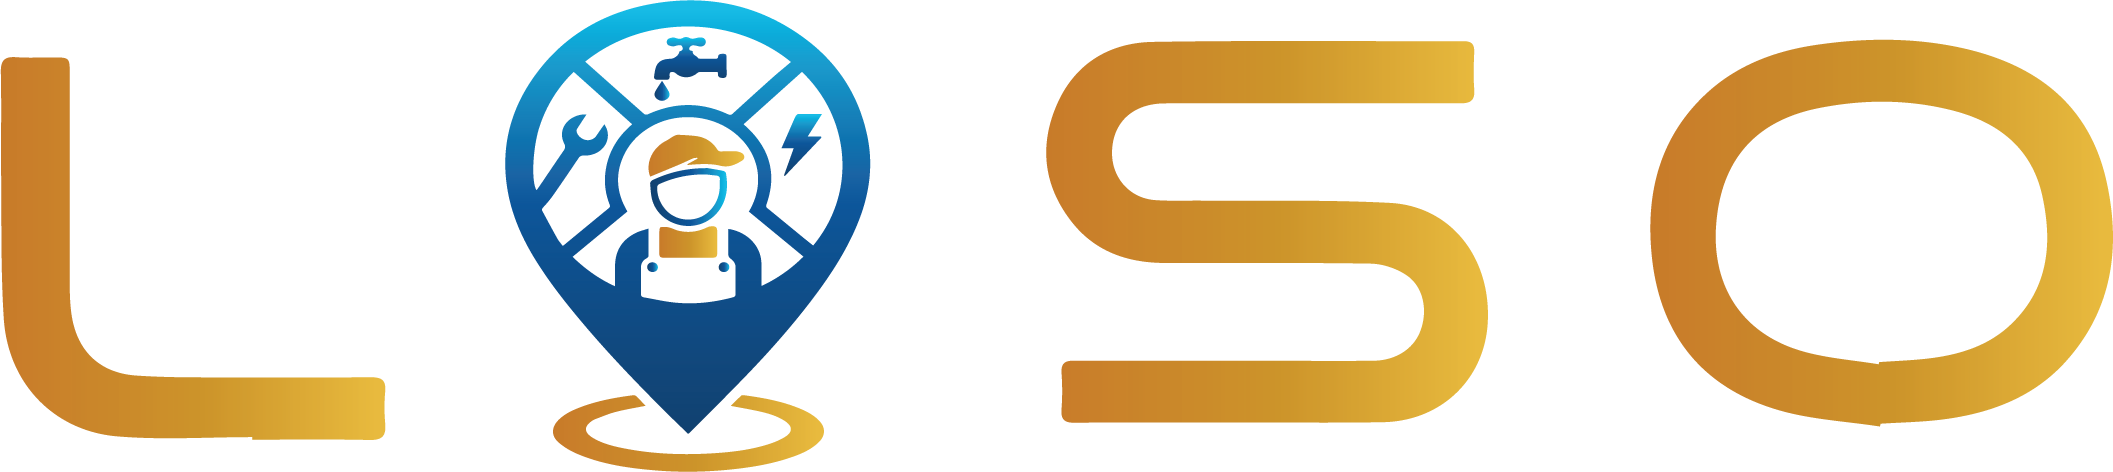
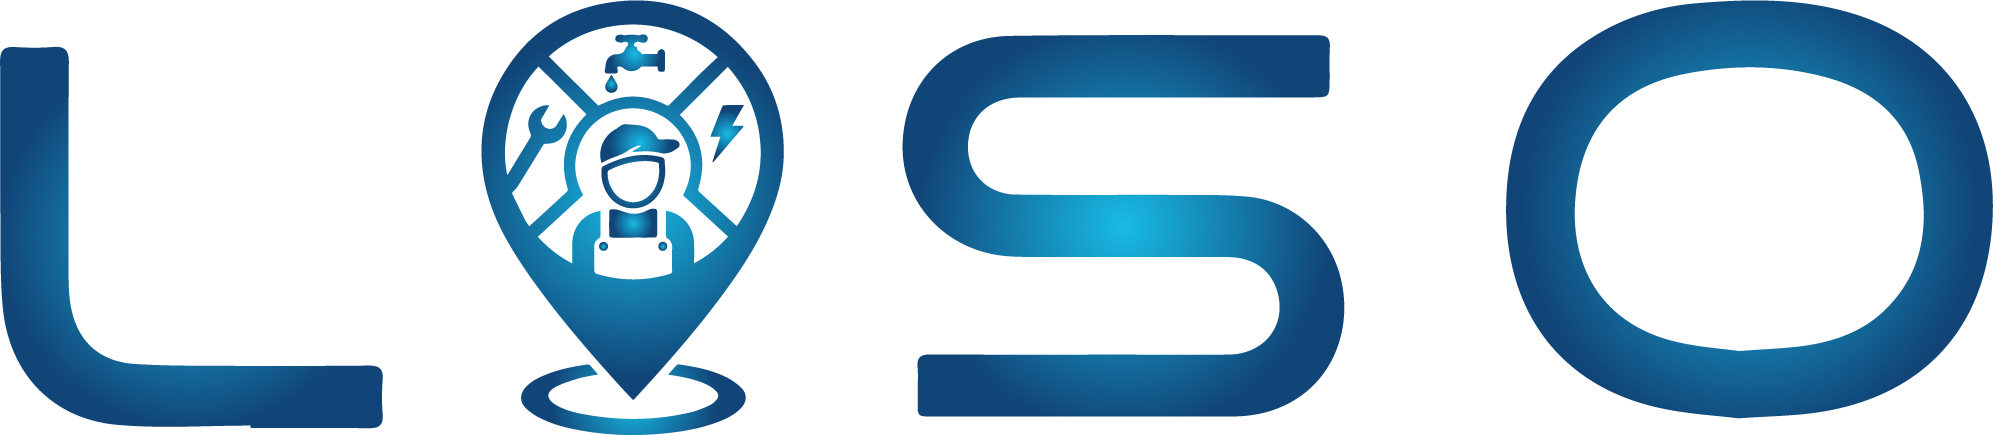
Fix: Clean up duplicate imports and placeholders in JS files

diff --git a/LASO/frontend/js/customer.js b/LASO/frontend/js/customer.js
@@ -1,7 +1,6 @@
 import { checkAuth, DISTRICTS, SERVICES, getQueryParams, getStarsHTML, calculateDistance } from './utils.js';
 import { initHeader, initBottomNav } from './components.js';
-import { fetchNearbyProviders, fetchProviderDetails, submitReview, fetchConversations, fetchMessageThread, sendMessage } from './api.js';
-import { fetchNearbyProviders, fetchProviderDetails, fetchUserProfile, submitReview, ... } from './api.js';
+import { fetchNearbyProviders, fetchProviderDetails, fetchUserProfile, submitReview, fetchConversations, fetchMessageThread, sendMessage } from './api.js';
 
 let currentUser = null;
 let currentCoords = null;

diff --git a/LASO/frontend/js/provider.js b/LASO/frontend/js/provider.js
@@ -1,7 +1,6 @@
 import { checkAuth, DISTRICTS, SERVICES, getQueryParams, getStarsHTML } from './utils.js';
 import { initHeader, initBottomNav } from './components.js';
-import { fetchProviderProfileByUserId, fetchProviderProfile, updateProviderProfile, fetchConversations, fetchMessageThread, sendMessage } from './api.js';
-import { fetchProviderProfileByUserId, fetchProviderProfile, fetchUserProfile, updateProviderProfile, ... } from './api.js';
+import { fetchProviderProfileByUserId, fetchProviderProfile, fetchUserProfile, updateProviderProfile, fetchConversations, fetchMessageThread, sendMessage } from './api.js';
 
 let currentUser = null;
 